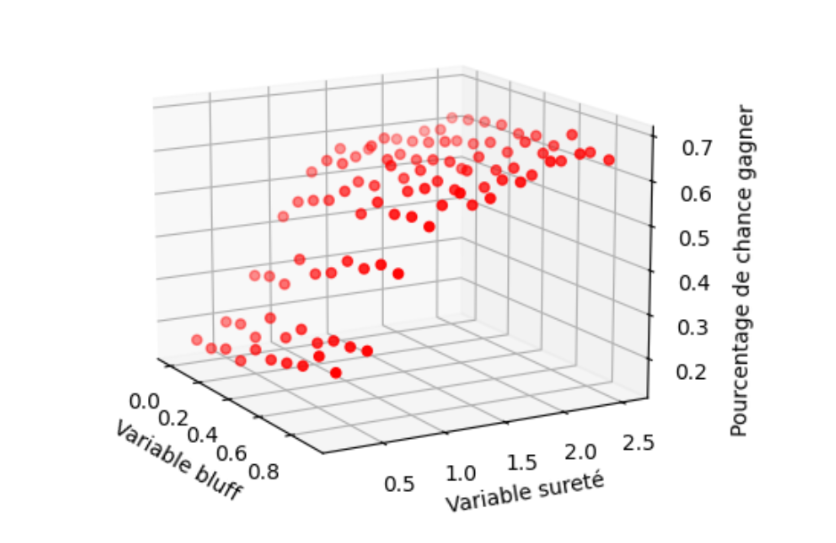
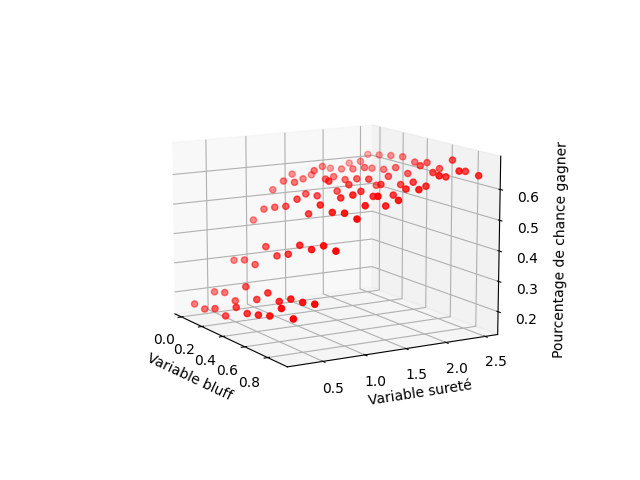
🗿graph3dmatplotlib

Changed region(s): [[0.125, 0.125, 0.9062, 0.9375], [0.4375, 0.875, 0.5, 0.9062], [0.1562, 0.7188, 0.1875, 0.75]]

diff --git a/graph3dmatplotlib.py b/graph3dmatplotlib.py
@@ -1,0 +1,49 @@
+import matplotlib.pyplot as plt
+
+data = [
+    [0.0, 0.25, 0.16285714285714287], [0.0, 0.5, 0.1957142857142857], [0.0, 0.75, 0.296137339055794],
+    [0.0, 1.0, 0.42714285714285716], [0.0, 1.25, 0.5242857142857142], [0.0, 1.5, 0.5714285714285714],
+    [0.0, 1.75, 0.5622317596566524], [0.0, 2.0, 0.5785714285714286], [0.0, 2.25, 0.59], [0.0, 2.5, 0.6142857142857143],
+    [0.1, 0.25, 0.16142857142857142], [0.1, 0.5, 0.20857142857142857], [0.1, 0.75, 0.31142857142857144],
+    [0.1, 1.0, 0.47714285714285715], [0.1, 1.25, 0.5657142857142857], [0.1, 1.5, 0.5665236051502146],
+    [0.1, 1.75, 0.6022889842632332], [0.1, 2.0, 0.5871428571428572], [0.1, 2.25, 0.6071428571428571],
+    [0.1, 2.5, 0.6228571428571429], [0.2, 0.25, 0.17857142857142858], [0.2, 0.5, 0.1957142857142857],
+    [0.2, 0.75, 0.31], [0.2, 1.0, 0.4957142857142857], [0.2, 1.25, 0.5728571428571428], [0.2, 1.5, 0.6057142857142858],
+    [0.2, 1.75, 0.5785714285714286], [0.2, 2.0, 0.5985714285714285], [0.2, 2.25, 0.5942857142857143],
+    [0.2, 2.5, 0.6314285714285715], [0.3, 0.25, 0.17], [0.3, 0.5, 0.25857142857142856], [0.3, 0.75, 0.3842857142857143],
+    [0.3, 1.0, 0.5114285714285715], [0.3, 1.25, 0.5457142857142857], [0.3, 1.5, 0.5885714285714285],
+    [0.3, 1.75, 0.58], [0.3, 2.0, 0.6142857142857143], [0.3, 2.25, 0.6014285714285714], [0.3, 2.5, 0.6380543633762518],
+    [0.4, 0.25, 0.21428571428571427], [0.4, 0.5, 0.23142857142857143], [0.4, 0.75, 0.3676680972818312],
+    [0.4, 1.0, 0.5471428571428572], [0.4, 1.25, 0.5514285714285714], [0.4, 1.5, 0.56], [0.4, 1.75, 0.5942857142857143],
+    [0.4, 2.0, 0.5657142857142857], [0.4, 2.25, 0.6185714285714285], [0.4, 2.5, 0.630901287553648],
+    [0.5, 0.25, 0.21], [0.5, 0.5, 0.26857142857142857], [0.5, 0.75, 0.3871428571428571], [0.5, 1.0, 0.5114285714285715],
+    [0.5, 1.25, 0.6114285714285714], [0.5, 1.5, 0.5928571428571429], [0.5, 1.75, 0.6042857142857143],
+    [0.5, 2.0, 0.6071428571428571], [0.5, 2.25, 0.61], [0.5, 2.5, 0.64], [0.6, 0.25, 0.22142857142857142],
+    [0.6, 0.5, 0.25608011444921314], [0.6, 0.75, 0.43], [0.6, 1.0, 0.5528571428571428], [0.6, 1.25, 0.5685714285714286],
+    [0.6, 1.5, 0.5828571428571429], [0.6, 1.75, 0.5985714285714285], [0.6, 2.0, 0.5914285714285714],
+    [0.6, 2.25, 0.6471428571428571], [0.6, 2.5, 0.630901287553648], [0.7, 0.25, 0.2342857142857143],
+    [0.7, 0.5, 0.2793696275071633], [0.7, 0.75, 0.43], [0.7, 1.0, 0.5414285714285715], [0.7, 1.25, 0.59],
+    [0.7, 1.5, 0.5785714285714286], [0.7, 1.75, 0.5757142857142857], [0.7, 2.0, 0.6108726752503576],
+    [0.7, 2.25, 0.6357142857142857], [0.7, 2.5, 0.67], [0.8, 0.25, 0.2742857142857143], [0.8, 0.5, 0.2842857142857143],
+    [0.8, 0.75, 0.45571428571428574], [0.8, 1.0, 0.5514285714285714], [0.8, 1.25, 0.5679542203147353],
+    [0.8, 1.5, 0.56], [0.8, 1.75, 0.6071428571428571], [0.8, 2.0, 0.6094420600858369], [0.8, 2.25, 0.6328571428571429],
+    [0.8, 2.5, 0.6442857142857142], [0.9, 0.25, 0.2571428571428571], [0.9, 0.5, 0.29428571428571426],
+    [0.9, 0.75, 0.45285714285714285], [0.9, 1.0, 0.5457142857142857], [0.9, 1.25, 0.61], [0.9, 1.5, 0.59],
+    [0.9, 1.75, 0.6171428571428571], [0.9, 2.0, 0.6542857142857142], [0.9, 2.25, 0.6628571428571428],
+    [0.9, 2.5, 0.6414285714285715]
+]
+
+x = [item[0] for item in data]
+y = [item[1] for item in data]
+z = [item[2] for item in data]
+
+fig = plt.figure()
+ax = fig.add_subplot(111, projection='3d')
+
+ax.scatter(x, y, z, c='r', marker='o')
+
+ax.set_xlabel('Variable bluff')
+ax.set_ylabel('Variable sureté')
+ax.set_zlabel('Pourcentage de chance gagner')
+
+plt.show()
